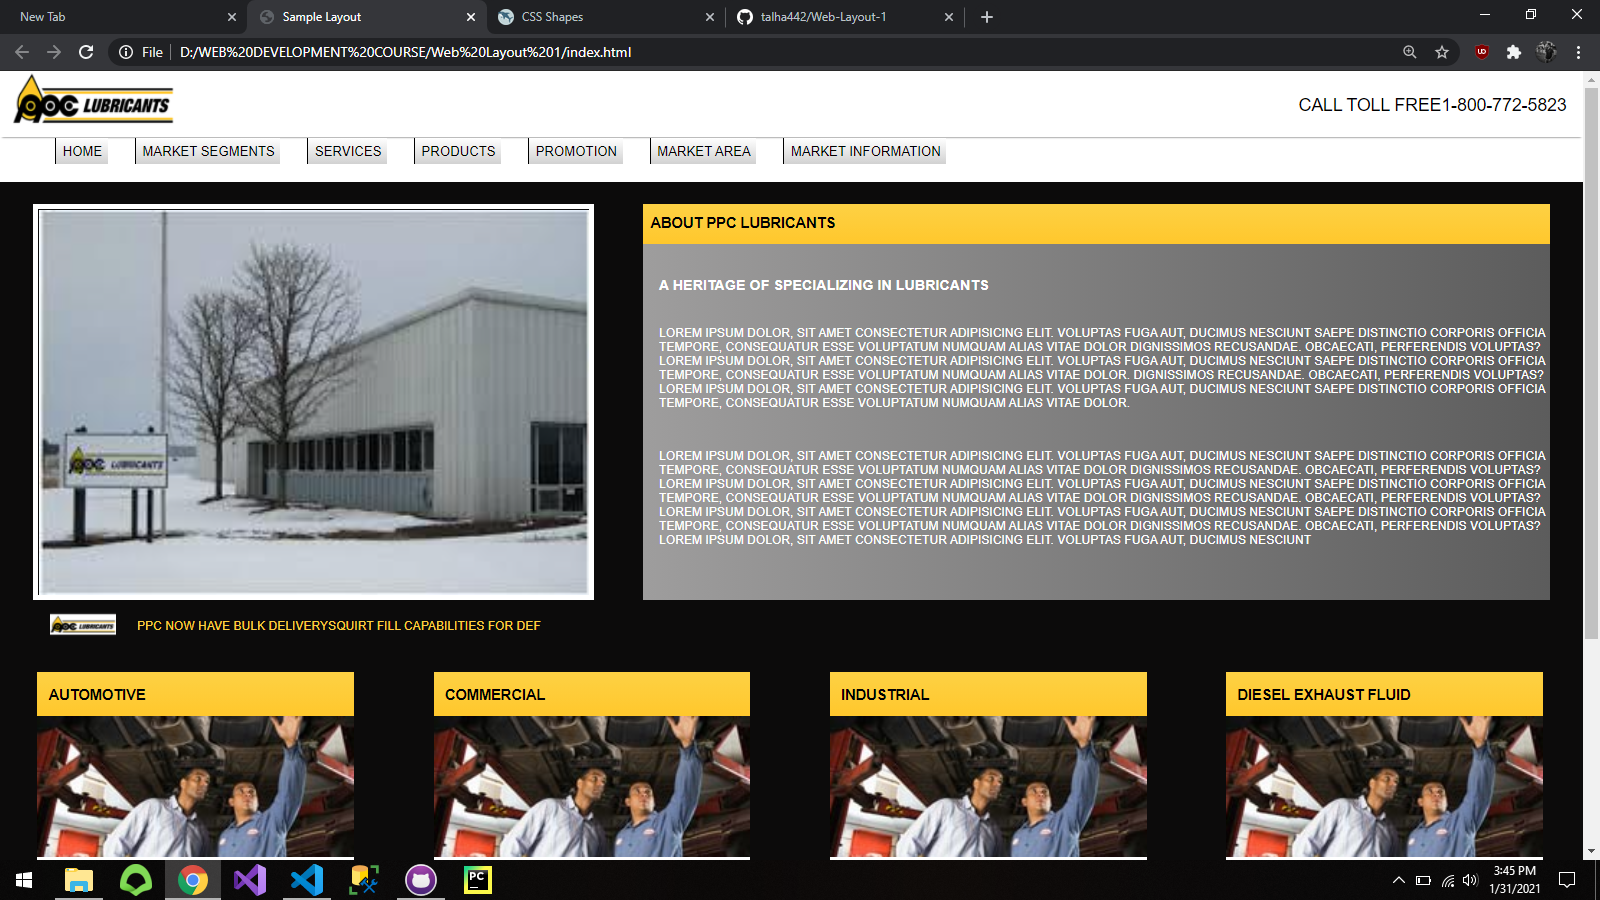
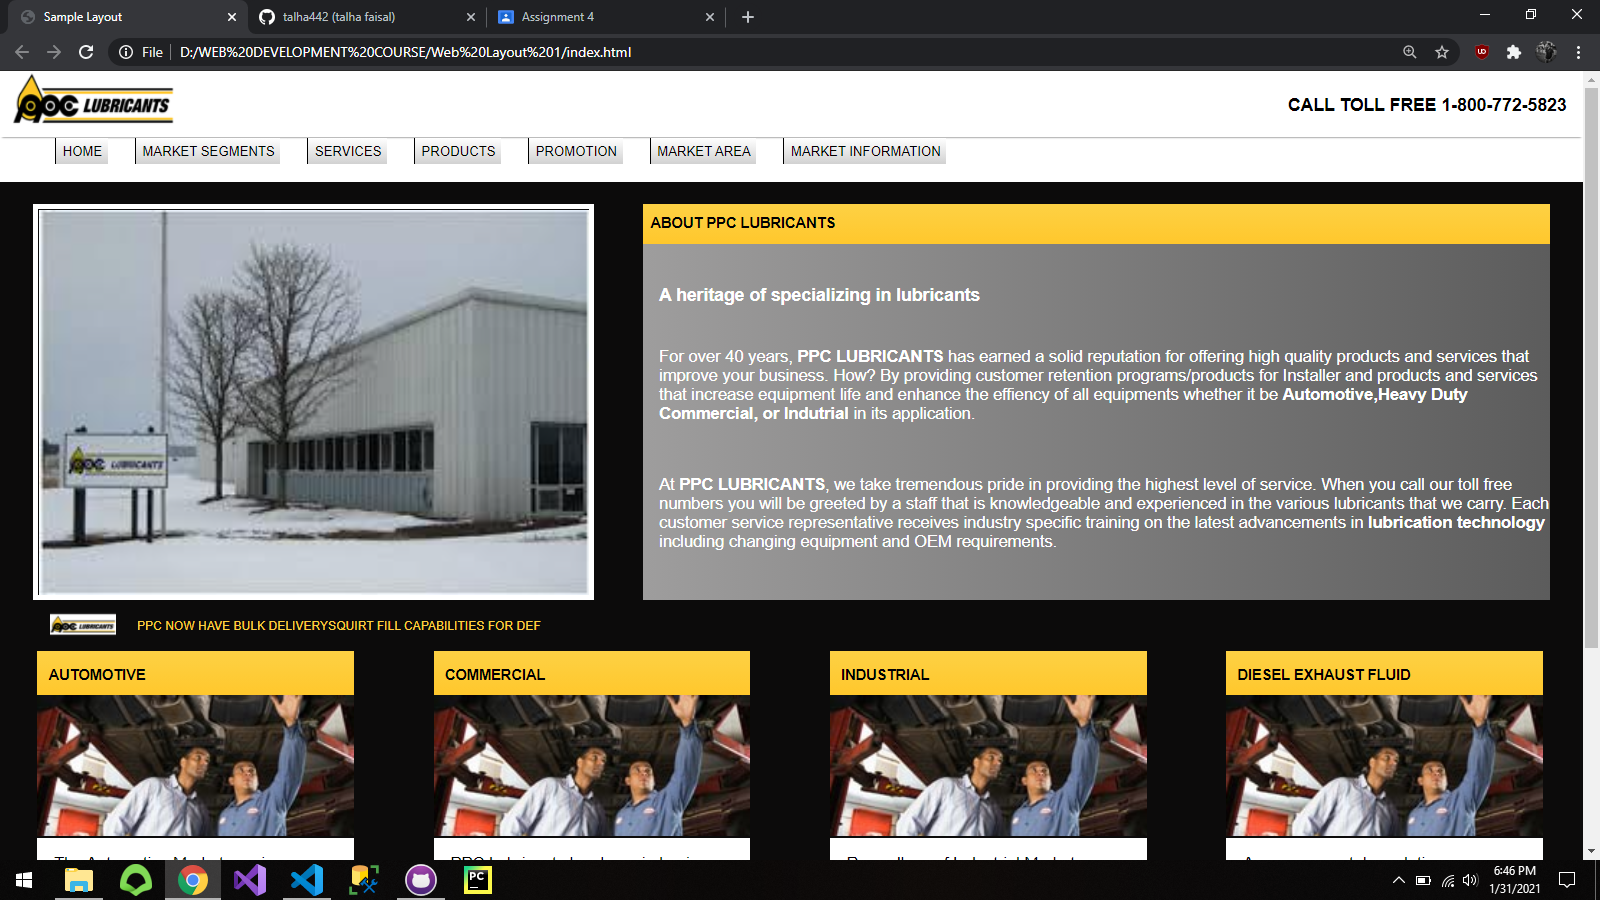
Some Changes

diff --git a/index.html b/index.html
@@ -16,7 +16,7 @@
                 <img src="./images/logo.png" alt="">
             </div>
             <div class="call">
-                <p>CALL TOLL FREE1-800-772-5823</p>
+                <p><strong>CALL TOLL FREE 1-800-772-5823</strong></p>
             </div>
         </div>
         <div class="navmenu">
@@ -42,11 +42,19 @@
                 <div class="para">
                     <h6>A heritage of specializing in lubricants</h6>
                     <p>
-                        For over 40 years, <strong>PPC LUBRICANTS</strong> has earned a solid reputation for offering high quality products and services that improve your business. How? By providing customer retention programs/products for Installer and products and services that increase equipment life and enhance the effiency of all equipments whether it be <strong>Automotive,Heavy Duty Commercial, or Indutrial</strong> in its application.
+                        For over 40 years, <strong>PPC LUBRICANTS</strong> has earned a solid reputation for offering
+                        high quality products and services that improve your business. How? By providing customer
+                        retention programs/products for Installer and products and services that increase equipment life
+                        and enhance the effiency of all equipments whether it be <strong>Automotive,Heavy Duty
+                            Commercial, or Indutrial</strong> in its application.
                     </p>
                     <br>
                     <p>
-                        At <strong>PPC LUBRICANTS</strong>, we take tremendous  pride in providing the highest level of service. When you call our toll free numbers you will be greeted by a staff that is knowledgeable and experienced in the various lubricants that we carry. Each customer service representative receives industry specific training on the latest advancements in <strong>lubrication technology</strong> including changing equipment and OEM requirements.
+                        At <strong>PPC LUBRICANTS</strong>, we take tremendous pride in providing the highest level of
+                        service. When you call our toll free numbers you will be greeted by a staff that is
+                        knowledgeable and experienced in the various lubricants that we carry. Each customer service
+                        representative receives industry specific training on the latest advancements in
+                        <strong>lubrication technology</strong> including changing equipment and OEM requirements.
                     </p>
                 </div>
             </div>
@@ -67,9 +75,10 @@
                         <img src="./images/1.png" alt="">
                     </div>
                     <div class="paragraph">
-                        <p>Lorem ipsum dolor sit amet consectetur adipisicing elit. Cumque suscipit obcaecati iusto quod
-                            voluptate quibusdam fugiat eum, dicta nam, necessitatibus veniam quasi sapiente doloremque
-                            non deserunt deleniti, aliquid commodi incidunt.</p>
+                        <p>
+                            The Automotive Market requires a different set of tools in order to succeed. PPC Lubricants
+                            offers various programs that are customized to each customer in....
+                        </p>
                     </div>
                     <div class="btn">
                         <button>Read More....</button>
@@ -83,9 +92,9 @@
                         <img src="./images/1.png" alt="">
                     </div>
                     <div class="paragraph">
-                        <p>Lorem ipsum dolor sit amet consectetur adipisicing elit. Cumque suscipit obcaecati iusto quod
-                            voluptate quibusdam fugiat eum, dicta nam, necessitatibus veniam quasi sapiente doloremque
-                            non deserunt deleniti, aliquid commodi incidunt.</p>
+                        <p>
+                            PPC Lubricants has been in business of supporting the Commercial Market for over 40 years! The most important thing that we have earned is this....
+                        </p>
                     </div>
                     <div class="btn">
                         <button>Read More....</button>
@@ -99,9 +108,9 @@
                         <img src="./images/1.png" alt="">
                     </div>
                     <div class="paragraph">
-                        <p>Lorem ipsum dolor sit amet consectetur adipisicing elit. Cumque suscipit obcaecati iusto quod
-                            voluptate quibusdam fugiat eum, dicta nam, necessitatibus veniam quasi sapiente doloremque
-                            non deserunt deleniti, aliquid commodi incidunt.</p>
+                        <p>
+                            Regardless of Industrial Market segment that you operate in: Metal, Foresty, Gas or Power Production, Foods, Plastics or almost any other field , your lubricant....
+                        </p>
                     </div>
                     <div class="btn">
                         <button>Read More....</button>
@@ -115,9 +124,9 @@
                         <img src="./images/1.png" alt="">
                     </div>
                     <div class="paragraph">
-                        <p>Lorem ipsum dolor sit amet consectetur adipisicing elit. Cumque suscipit obcaecati iusto quod
-                            voluptate quibusdam fugiat eum, dicta nam, necessitatibus veniam quasi sapiente doloremque
-                            non deserunt deleniti, aliquid commodi incidunt.</p>
+                        <p>
+                            As governmental regulations on emissions from diesel engines become more severe, it has forced vechile manufacturers to evaluate and adopt new technologies in order to....
+                        </p>
                     </div>
                     <div class="btn">
                         <button>Read More....</button>

diff --git a/style.css b/style.css
@@ -141,6 +141,7 @@ body {
     display: inline-block;
     width: 20%;
     margin: 34px;
+    margin-top: 15px;
 }
 
 .down .heading {
@@ -158,7 +159,8 @@ body {
 .down .paragraph {
     background-color: #fff;
     margin-top: -18px;
-    font-size: 13px;
+    font-size: 15px;
+    text-transform: none;
     height: 200px;
 }
 
